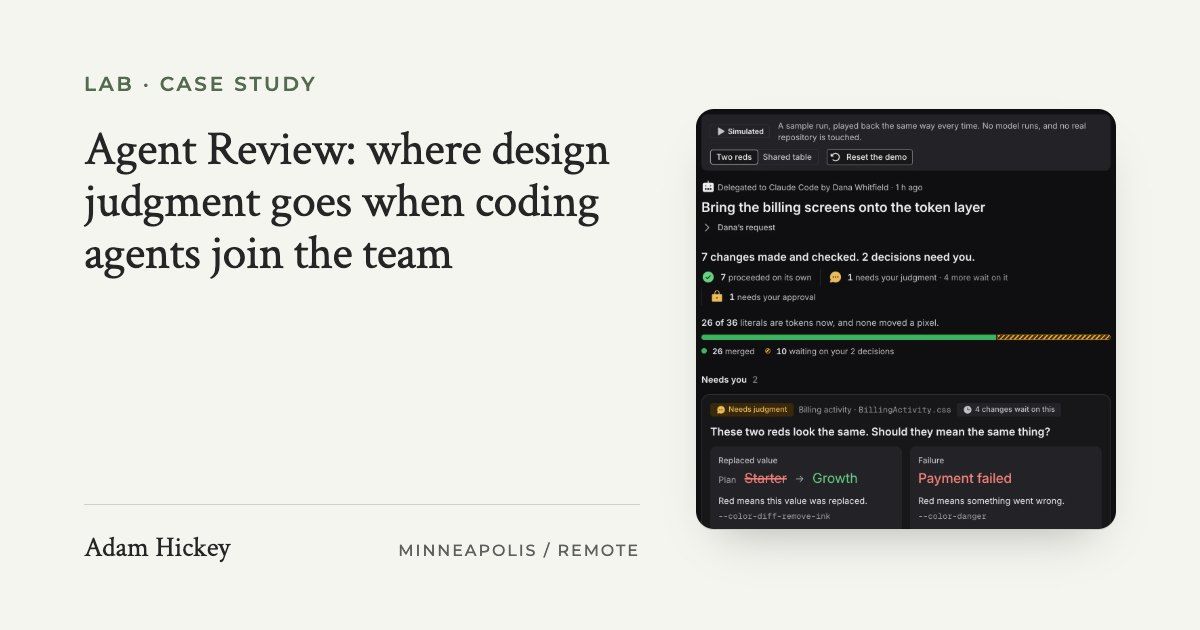
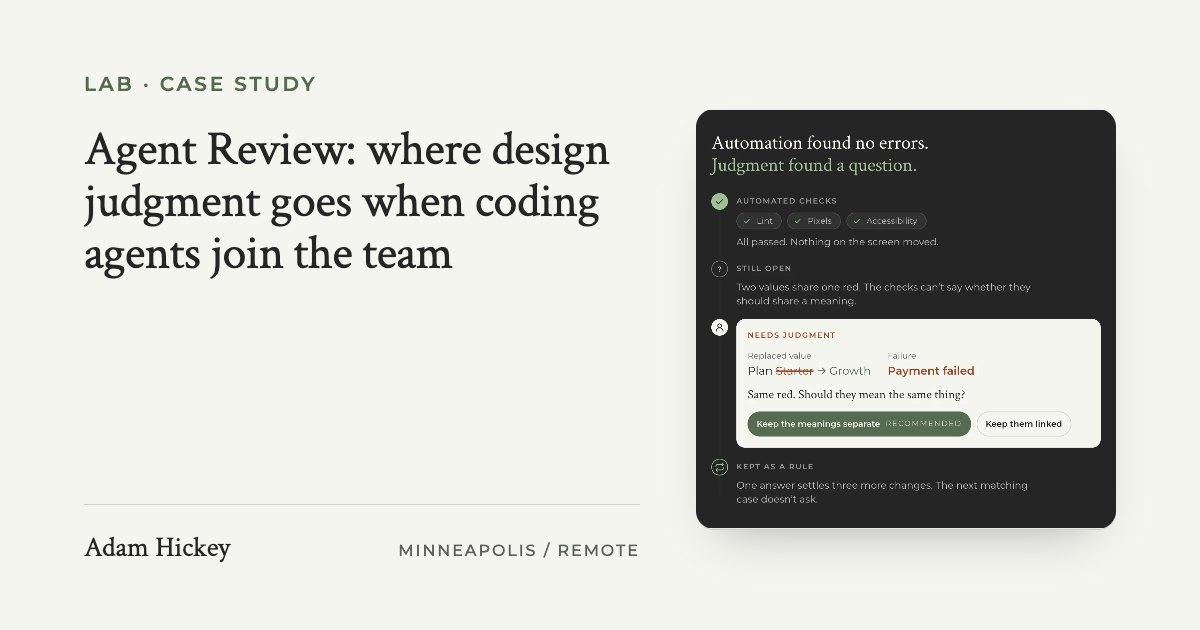
The Agent Review case study's share card shows the homepage's composition, so a post unfurls with the same picture the homepage opens the project on (#462)
Since #461 the homepage's Agent Review card has been a composition
(figure.lab-feature, lab-feature.css): the point in one line, the
interaction under it in four beats. The case study's share card still
framed the product's square, a screen about two reds that a reader had
to follow before the point reached them, so a link to the case study
unfurled on LinkedIn with the picture the homepage had just replaced.

- `scripts/lab-cards.mjs` gains a page card, `agent-review-feature`:
  served from this tree the way og.mjs serves its cards, the homepage at
  1440 with reduced motion, the figure screenshotted at 2x (1246 x 1208)
  as `img/lab/agent-review-feature.webp`. The share square's comment
  says the lab index's card is the one still using it.
- `scripts/og.mjs` points `agent-review` at the new picture;
  `img/og/agent-review.jpg` is re-rendered from it, and the case study's
  `og:image` and Article image move to `?v=11` so a scraper fetches the
  new bytes.

The lab index's card keeps the product's square. The fast five pass;
no stylesheet, copy or count moved.

Changed region(s): [[0.5858, 0.181, 0.925, 0.8444]]

diff --git a/lab/agent-review.html b/lab/agent-review.html
@@ -19,7 +19,7 @@
   <meta property="og:url" content="https://adamhickey.com/lab/agent-review.html" />
   <meta property="og:title" content="Agent Review: Where Design Judgment Goes When Coding Agents Join the Team | Adam Hickey" />
   <meta property="og:description" content="A case study in supervising AI coding agents without reviewing every action. Agent Review is an interactive prototype for knowing when an agent should proceed on its own, ask a person to decide, or wait for approval. It plays two simulated runs, and it grew out of a real experiment: two Claude Code runs inside a React component system, with twelve design rules and without." />
-  <meta property="og:image" content="https://adamhickey.com/img/og/agent-review.jpg?v=10" />
+  <meta property="og:image" content="https://adamhickey.com/img/og/agent-review.jpg?v=11" />
   <meta property="og:image:width" content="1200" />
   <meta property="og:image:height" content="630" />
   <meta name="twitter:card" content="summary_large_image" />
@@ -37,7 +37,7 @@
           "description": "A case study in supervising AI coding agents without reviewing every action. Agent Review is an interactive prototype for knowing when an agent should proceed on its own, ask a person to decide, or wait for approval. It plays two simulated runs, and it grew out of a real experiment: two Claude Code runs inside a React component system, with twelve design rules and without.",
           "url": "https://adamhickey.com/lab/agent-review.html",
           "mainEntityOfPage": "https://adamhickey.com/lab/agent-review.html",
-          "image": "https://adamhickey.com/img/og/agent-review.jpg?v=10",
+          "image": "https://adamhickey.com/img/og/agent-review.jpg?v=11",
           "datePublished": "2026-10-01",
           "dateModified": "2026-10-09",
           "author": {
